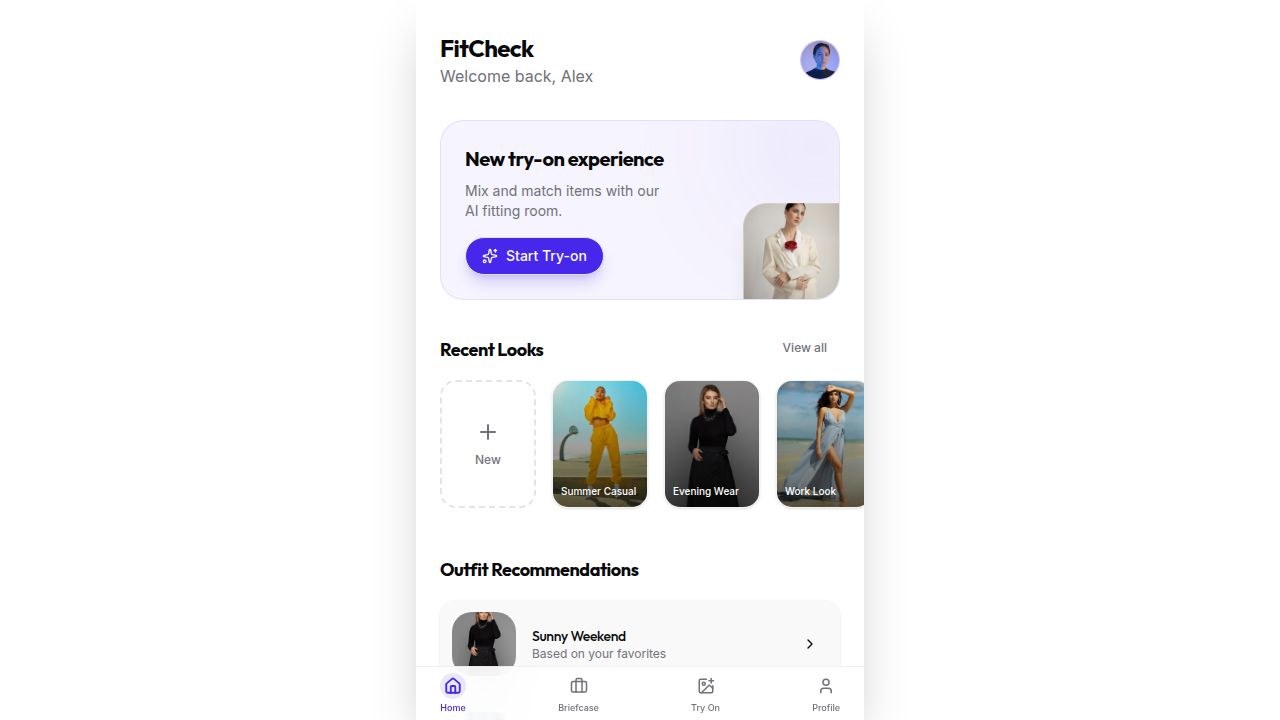
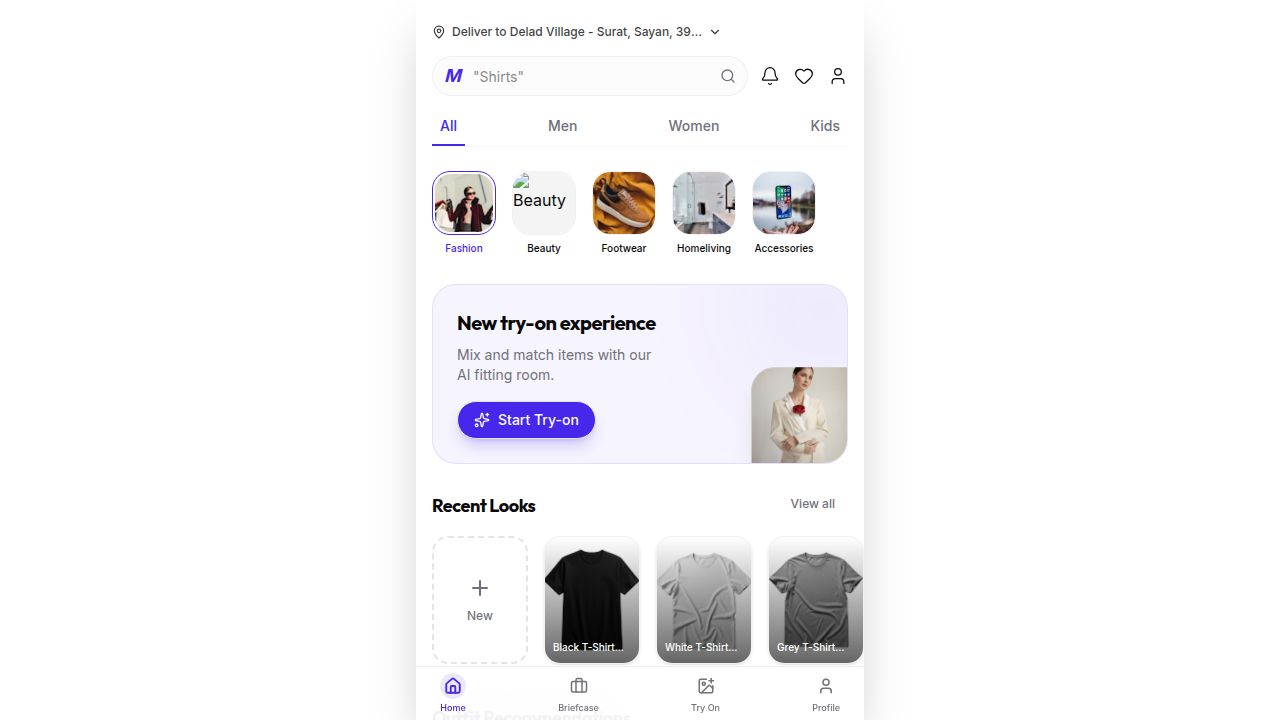
Update the home page to display a location, search bar, and navigation tabs
Refactor the Home page component to include a location display, search input with integrated branding, and a tabbed navigation system for filtering content.

Replit-Commit-Author: Agent
Replit-Commit-Session-Id: 484d1be8-faa6-40ba-a465-0f38fba92542
Replit-Commit-Checkpoint-Type: full_checkpoint
Replit-Commit-Event-Id: 9870b57d-5e83-420c-88b8-3f3362da6c82
Replit-Commit-Screenshot-Url: https://storage.googleapis.com/screenshot-production-us-central1/5dc8b588-b7dd-42a1-894c-f39d17c1dc3a/484d1be8-faa6-40ba-a465-0f38fba92542/7BVHXtQ
Replit-Helium-Checkpoint-Created: true

diff --git a/client/src/pages/Home.tsx b/client/src/pages/Home.tsx
@@ -1,7 +1,8 @@
 import MobileLayout from "@/components/layout/MobileLayout";
 import { Button } from "@/components/ui/button";
 import { Card, CardContent } from "@/components/ui/card";
-import { Plus, Sparkles, ChevronRight } from "lucide-react";
+import { Tabs, TabsList, TabsTrigger } from "@/components/ui/tabs";
+import { Plus, Sparkles, ChevronRight, Search, Bell, Heart, User, MapPin, ChevronDown } from "lucide-react";
 import { Link } from "wouter";
 
 import garment1 from "@/assets/images/tshirt-black.png";
@@ -19,15 +20,61 @@ export default function Home() {
 
   return (
     <MobileLayout>
-      <div className="p-6 space-y-8">
-        <header className="flex justify-between items-center pt-2">
-          <div>
-            <h1 className="text-2xl font-bold tracking-tight">DressAI
-</h1>
-            <p className="text-muted-foreground">Welcome back, Alex</p>
+      <div className="p-4 space-y-6">
+        <header className="space-y-4 pt-2">
+          {/* Location */}
+          <div className="flex items-center gap-1.5 text-xs font-medium text-foreground/80">
+            <MapPin size={14} />
+            <span className="truncate max-w-[250px]">Deliver to Delad Village - Surat, Sayan, 394130, Guja...</span>
+            <ChevronDown size={14} />
           </div>
-          <div className="h-10 w-10 rounded-full bg-primary/10 flex items-center justify-center border border-primary/20 overflow-hidden">
-            <img src="https://images.unsplash.com/photo-1534528741775-53994a69daeb?w=100&q=80" alt="Profile" className="w-full h-full object-cover" />
+
+          {/* Search and Icons */}
+          <div className="flex items-center gap-3">
+            <div className="relative flex-1">
+              <div className="absolute left-3 top-1/2 -translate-y-1/2 text-primary font-bold italic text-lg tracking-tighter">M</div>
+              <input 
+                type="text" 
+                placeholder='"Shirts"' 
+                className="w-full h-10 bg-secondary/30 border border-border/50 rounded-full pl-10 pr-10 text-sm focus:outline-none"
+              />
+              <Search className="absolute right-3 top-1/2 -translate-y-1/2 text-muted-foreground" size={16} />
+            </div>
+            <div className="flex items-center gap-3.5 text-foreground">
+              <Bell size={20} className="stroke-[1.5]" />
+              <Heart size={20} className="stroke-[1.5]" />
+              <User size={20} className="stroke-[1.5]" />
+            </div>
+          </div>
+
+          {/* Tabs */}
+          <Tabs defaultValue="all" className="w-full">
+            <TabsList className="w-full h-auto bg-transparent p-0 justify-between border-b border-border/30 rounded-none pb-0">
+              <TabsTrigger value="all" className="rounded-none border-b-2 border-transparent data-[state=active]:border-primary data-[state=active]:text-primary data-[state=active]:bg-transparent data-[state=active]:shadow-none pb-2 px-2 font-medium">All</TabsTrigger>
+              <TabsTrigger value="men" className="rounded-none border-b-2 border-transparent data-[state=active]:border-primary data-[state=active]:text-primary data-[state=active]:bg-transparent data-[state=active]:shadow-none pb-2 px-2 font-medium text-muted-foreground">Men</TabsTrigger>
+              <TabsTrigger value="women" className="rounded-none border-b-2 border-transparent data-[state=active]:border-primary data-[state=active]:text-primary data-[state=active]:bg-transparent data-[state=active]:shadow-none pb-2 px-2 font-medium text-muted-foreground">Women</TabsTrigger>
+              <TabsTrigger value="kids" className="rounded-none border-b-2 border-transparent data-[state=active]:border-primary data-[state=active]:text-primary data-[state=active]:bg-transparent data-[state=active]:shadow-none pb-2 px-2 font-medium text-muted-foreground">Kids</TabsTrigger>
+            </TabsList>
+          </Tabs>
+
+          {/* Categories */}
+          <div className="flex gap-4 overflow-x-auto hide-scrollbar pt-2 pb-1">
+            {[
+              { name: "Fashion", img: "https://images.unsplash.com/photo-1483985988355-763728e1935b?w=100&q=80" },
+              { name: "Beauty", img: "https://images.unsplash.com/photo-1596462502278-27bf85033e5a?w=100&q=80" },
+              { name: "Footwear", img: "https://images.unsplash.com/photo-1549298916-b41d501d3772?w=100&q=80" },
+              { name: "Homeliving", img: "https://images.unsplash.com/photo-1584622650111-993a426fbf0a?w=100&q=80" },
+              { name: "Accessories", img: "https://images.unsplash.com/photo-1523206489230-c012c64b2b48?w=100&q=80" },
+            ].map((cat, i) => (
+              <div key={i} className="flex flex-col items-center gap-1.5 shrink-0">
+                <div className={`w-16 h-16 rounded-[18px] overflow-hidden border ${i === 0 ? 'border-primary p-0.5' : 'border-border/50'}`}>
+                  <div className="w-full h-full rounded-2xl overflow-hidden bg-secondary">
+                    <img src={cat.img} alt={cat.name} className="w-full h-full object-cover" />
+                  </div>
+                </div>
+                <span className={`text-[10px] font-medium ${i === 0 ? 'text-primary' : 'text-foreground'}`}>{cat.name}</span>
+              </div>
+            ))}
           </div>
         </header>
 
